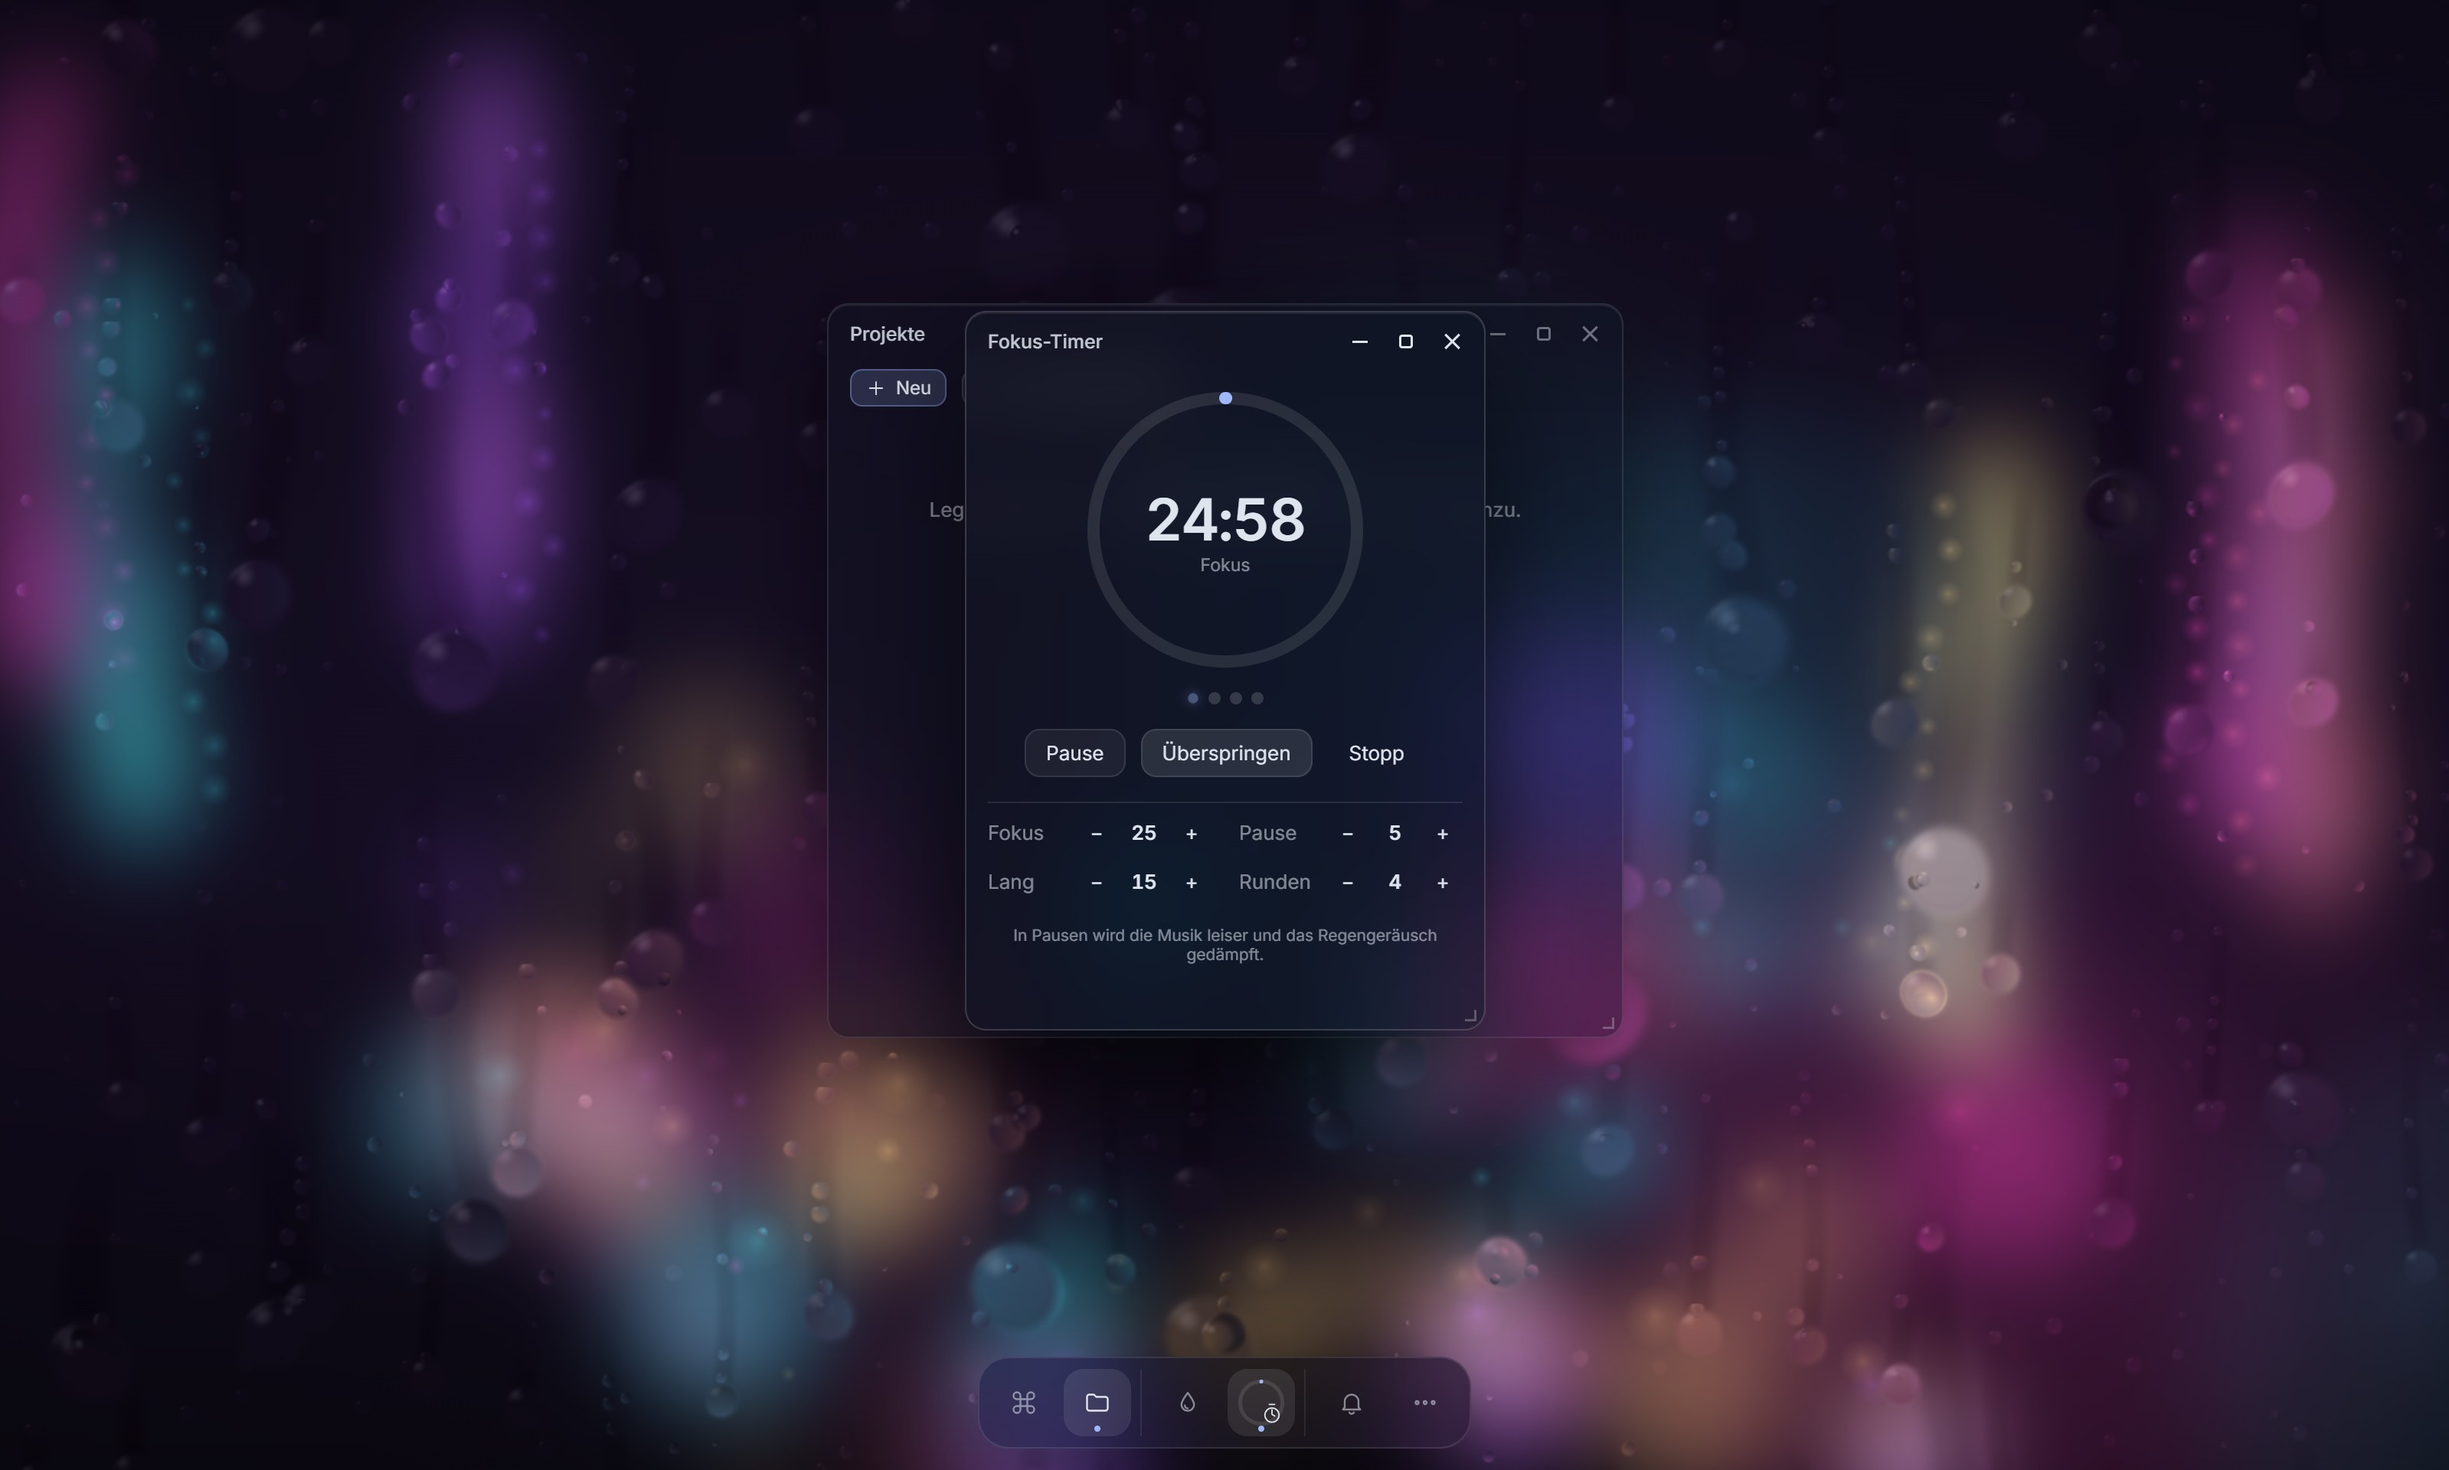
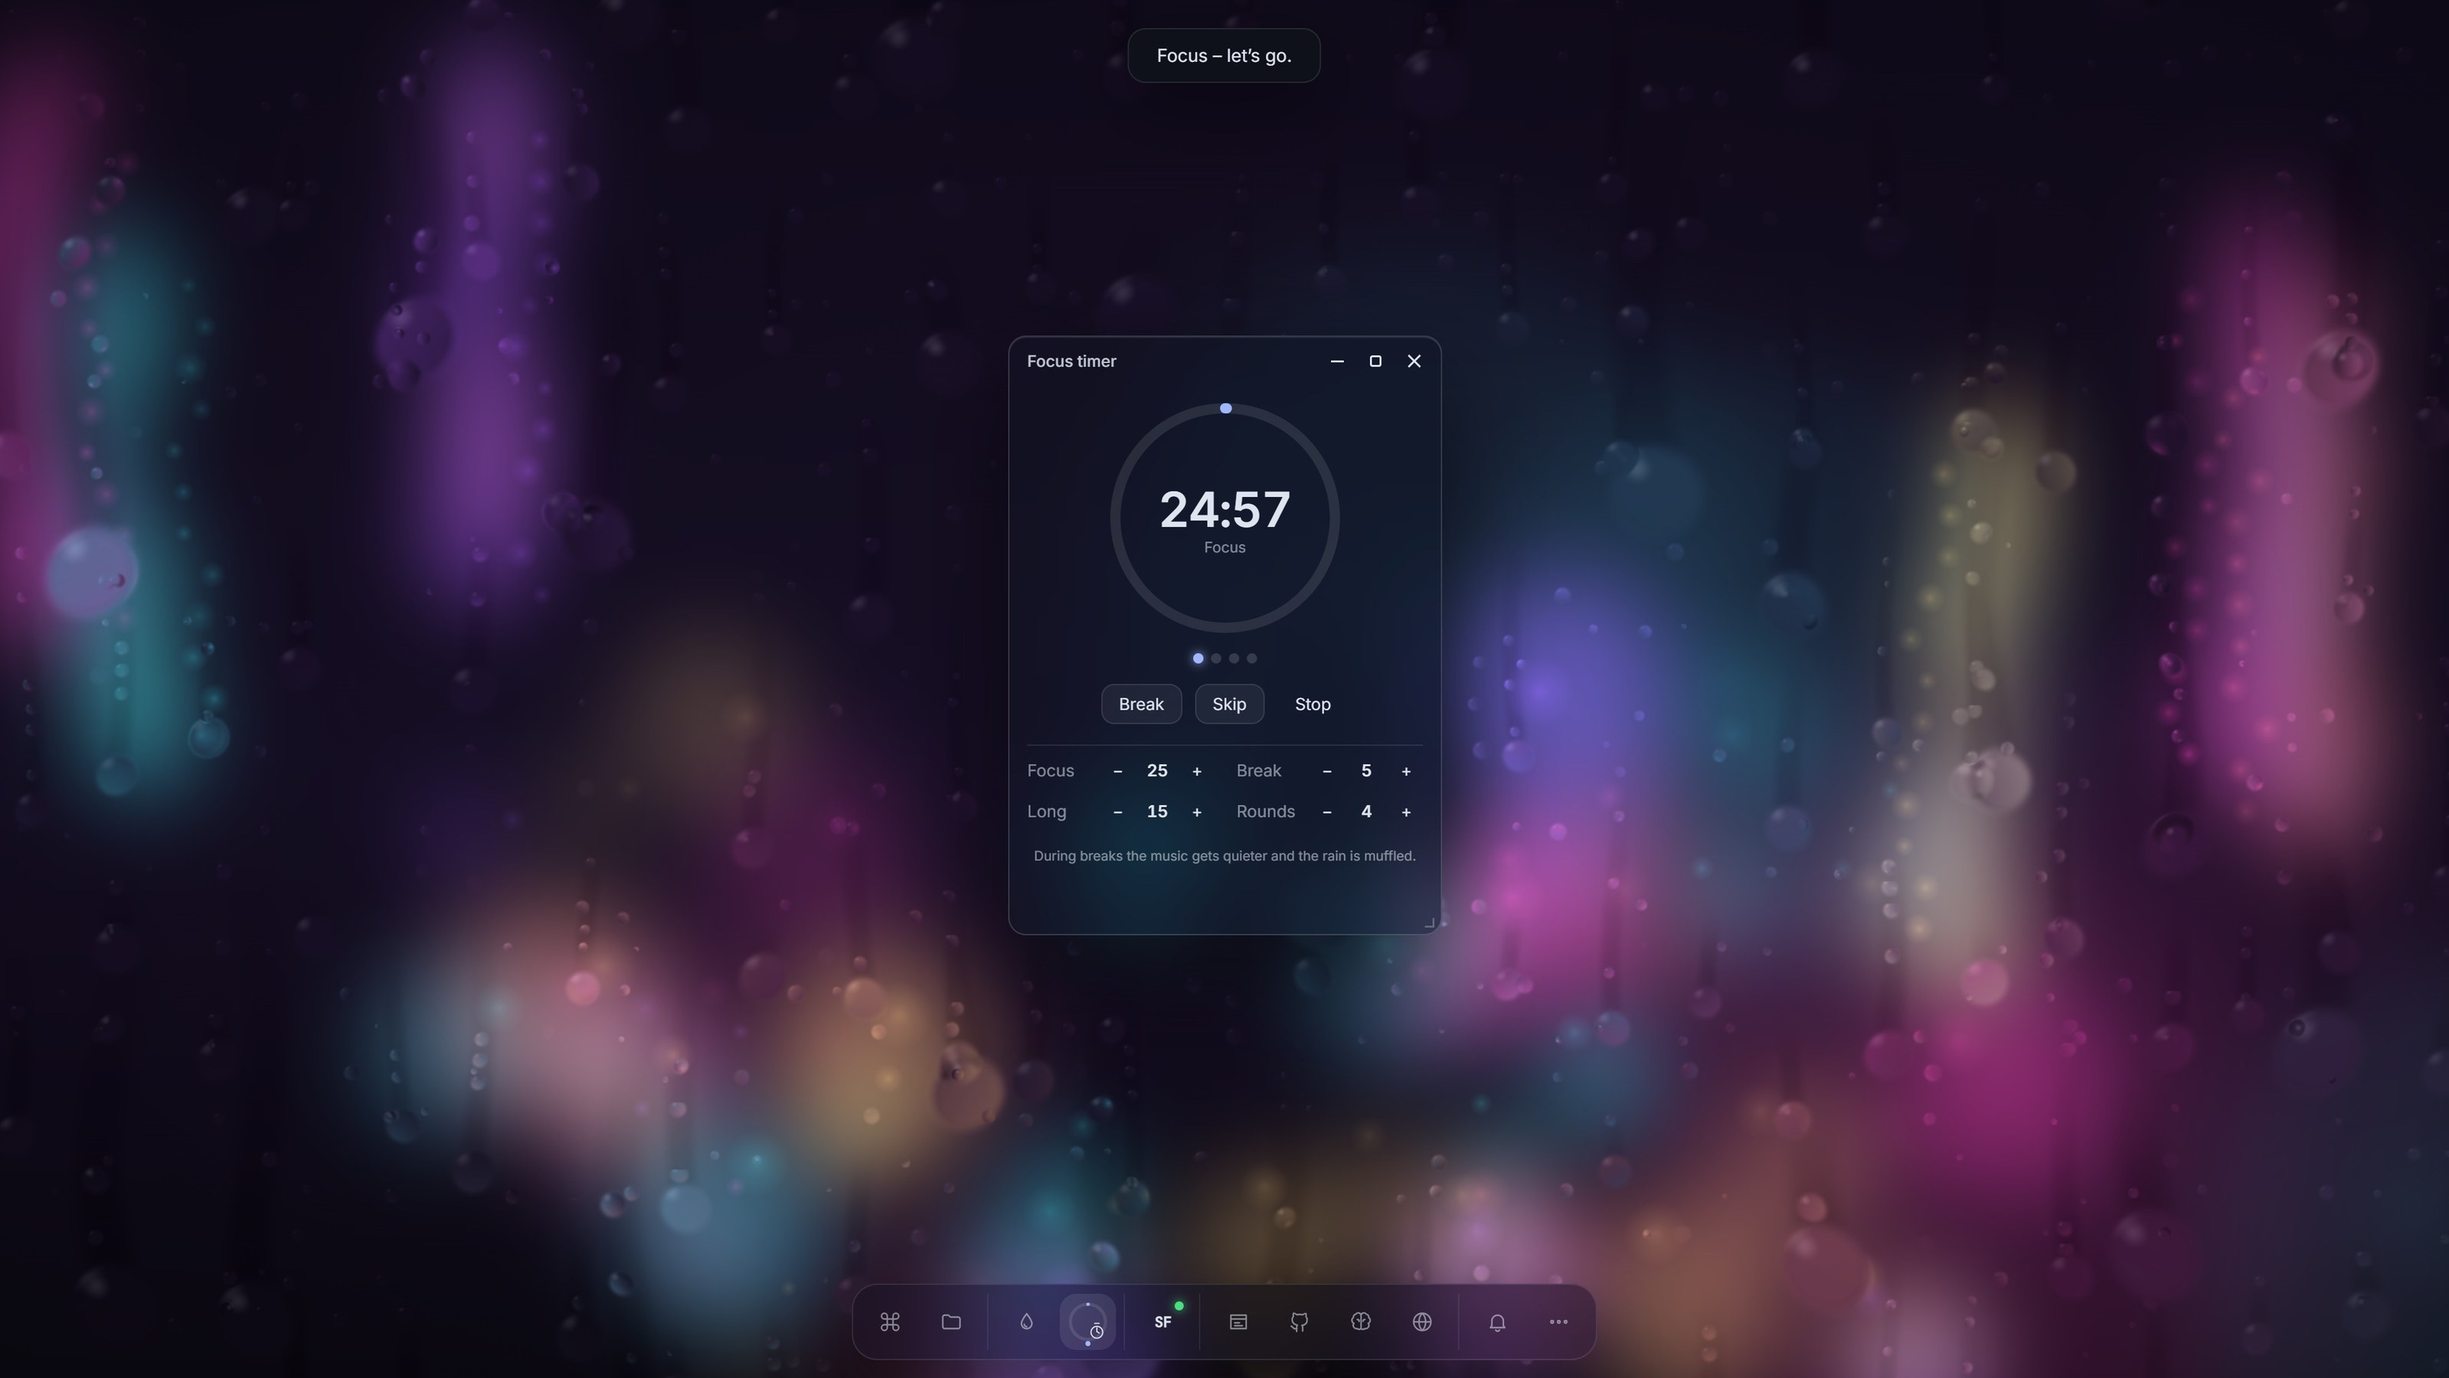
docs(readme): englische Screenshots im englischen README, deutsche behalten eigene Dateien

diff --git a/README.de.md b/README.de.md
@@ -18,7 +18,7 @@ Regen an der Scheibe, Lofi im Ohr – und alle Claude-Code-Sessions auf einem Wi
 <br/><br/>
 
 <!-- hero.gif: sobald .github/assets/hero.gif existiert, src unten auf .github/assets/hero.gif ändern -->
-<img src=".github/assets/hero.jpg" alt="VibeDesk: eine Claude-Code-Session vor einer verregneten Scheibe, darunter ein kleines Dock" />
+<img src=".github/assets/hero-de.jpg" alt="VibeDesk: eine Claude-Code-Session vor einer verregneten Scheibe, darunter ein kleines Dock" />
 
 </div>
 
@@ -124,8 +124,8 @@ In den Terminals läuft das echte Claude Code. VibeDesk legt den Blick darum: wa
 
 <table>
   <tr>
-    <td><img src=".github/assets/focus.jpg" alt="Fokus-Timer vor der Tokio-Szene" /></td>
-    <td><img src=".github/assets/welcome.jpg" alt="Willkommens-Rundgang" /></td>
+    <td><img src=".github/assets/focus-de.jpg" alt="Fokus-Timer vor der Tokio-Szene" /></td>
+    <td><img src=".github/assets/welcome-de.jpg" alt="Willkommens-Rundgang" /></td>
   </tr>
 </table>
 

diff --git a/README.md b/README.md
@@ -18,7 +18,7 @@ Rain on the window, lofi in your ears, and every Claude Code session on one Wind
 <br/><br/>
 
 <!-- hero.gif: once .github/assets/hero.gif exists, change the src below to .github/assets/hero.gif -->
-<img src=".github/assets/hero.jpg" alt="VibeDesk: one Claude Code session in front of a rainy window, with a small dock" />
+<img src=".github/assets/hero.jpg" alt="VibeDesk in Zen mode: one Claude Code session in front of a rainy window, the other sessions as small pills at the top" />
 
 </div>
 
